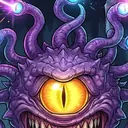
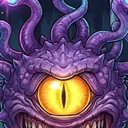
PR #99 — v0.53.1: rostos da foto de perfil ajustados (#99)
* v0.53.1: rostos da foto de perfil ajustados (27), Fen de pé

* v0.53.1: REGRAS

---------

diff --git a/tests/visual/v053.test.ts b/tests/visual/v053.test.ts
@@ -25,3 +25,13 @@ describe('v0.53.0 vitória, escolha de carta e tutorial', () => {
     expect(readFileSync('src/ui/spotlight.ts', 'utf8')).toContain('if (opts.light)');
   });
 });
+
+describe('v0.53.1 rostos ajustados à mão', () => {
+  it('os 27 pedidos têm corte próprio e o Fen é girado', () => {
+    const py = readFileSync('scripts/art/build_thumbs.py', 'utf8');
+    for (const id of 'borgo trokk skarr oculus grendar razorv thessa orun velka fenra zynna gorm vexar bolt goro hayato tobi ren sylith kraz9 vex4 fen bram vesna dorian lamenta drakon'.split(' '))
+      expect(py).toMatch(new RegExp(`FACE_FIX = \\{[\\s\\S]*'${id}': \\(`));
+    expect(py).toContain("'fen': (0.44, 0.75, 0.28, 'flip')");
+    expect(py).toContain('face.rotate(180)');
+  });
+});

diff --git a/scripts/art/build_thumbs.py b/scripts/art/build_thumbs.py
@@ -94,7 +94,17 @@ FACE_AUTO = {
     'yume': (0.503, 0.315, 0.308),
     'yuna': (0.528, 0.217, 0.336),
 }
-FACE = {**FACE_AUTO, **FACE}
+# v0.53.1: ajuste à mão pedido pelo jogador (rosto no centro; 'flip' = arte de cabeça para baixo, o rosto é girado 180°)
+FACE_FIX = {
+ 'borgo': (0.5, 0.24, 0.32), 'trokk': (0.5, 0.21, 0.3), 'skarr': (0.48, 0.3, 0.3), 'oculus': (0.5, 0.42, 0.45),
+ 'grendar': (0.47, 0.27, 0.45), 'razorv': (0.45, 0.27, 0.3), 'thessa': (0.48, 0.27, 0.28), 'orun': (0.55, 0.24, 0.3),
+ 'velka': (0.5, 0.2, 0.32), 'fenra': (0.66, 0.13, 0.32), 'zynna': (0.28, 0.36, 0.3), 'gorm': (0.58, 0.24, 0.3),
+ 'vexar': (0.36, 0.25, 0.3), 'bolt': (0.62, 0.27, 0.26), 'goro': (0.47, 0.28, 0.3), 'hayato': (0.43, 0.22, 0.3),
+ 'tobi': (0.47, 0.27, 0.3), 'ren': (0.47, 0.26, 0.28), 'sylith': (0.45, 0.48, 0.26), 'kraz9': (0.45, 0.28, 0.28),
+ 'vex4': (0.6, 0.27, 0.3), 'fen': (0.44, 0.75, 0.28, 'flip'), 'bram': (0.5, 0.3, 0.34), 'vesna': (0.36, 0.36, 0.28),
+ 'dorian': (0.5, 0.2, 0.28), 'lamenta': (0.5, 0.33, 0.26), 'drakon': (0.28, 0.44, 0.34),
+}
+FACE = {**FACE_AUTO, **FACE, **FACE_FIX}
 FACE_PX = 128
 fout = os.path.join(ROOT, 'src', 'assets', 'faces')
 os.makedirs(fout, exist_ok=True)
@@ -102,9 +112,13 @@ for p in sorted(glob.glob(os.path.join(ROOT, 'src', 'assets', 'chars', '*.webp')
     cid = os.path.basename(p)[:-5]
     im = Image.open(p).convert('RGB')
     w, h = im.size
-    cx, cy, sz = FACE.get(cid, FACE_DEFAULT)
+    v = FACE.get(cid, FACE_DEFAULT)
+    cx, cy, sz = v[:3]
     s = sz * w
     x0 = min(max(0, cx * w - s / 2), w - s)
     y0 = min(max(0, cy * h - s / 2), h - s)
-    im.crop((round(x0), round(y0), round(x0 + s), round(y0 + s))).resize((FACE_PX, FACE_PX), Image.LANCZOS).save(os.path.join(fout, f'{cid}.webp'), quality=80, method=6)
+    face = im.crop((round(x0), round(y0), round(x0 + s), round(y0 + s))).resize((FACE_PX, FACE_PX), Image.LANCZOS)
+    if len(v) > 3 and v[3] == 'flip':
+        face = face.rotate(180)
+    face.save(os.path.join(fout, f'{cid}.webp'), quality=80, method=6)
 print('rostos:', len(os.listdir(fout)))

diff --git a/CHANGELOG.md b/CHANGELOG.md
@@ -2,6 +2,11 @@
 
 Toda PR deve adicionar uma entrada aqui e atualizar o [REGRAS.md](REGRAS.md). Horários em Brasília (UTC−3).
 
+## [0.53.1] — 30/10/2026 · Rostos da foto de perfil ajustados
+- **Rosto no centro (27 personagens):** Borgo, Trokk, Skarr, Oculus, Grendar, Razor-V, Thessa, Orun, Velka (o queixo não é mais cortado), Fenra, Zynna, Gorm, Vexar, Bolt-12, Goro, Mestre Hayato, Tobi, Ren, Sylith, Kraz-9, Vex-4, Fen, Bram, Vesna, Dorian, Lamenta e Drakon.
+- **Fen:** a arte dele é de cabeça para baixo; o rosto da foto de perfil agora é girado e fica de pé.
+- Só o recorte da foto de perfil mudou; as artes das cartas são as mesmas.
+
 ## [0.53.0] — 30/10/2026 · Vitória mais clara e tutorial que mostra as habilidades
 - **Vitória:** o título "Vitória!" fica centralizado. Os três objetivos de estrela começam com "Vencer…" (o de derrotar inimigos virou "Vencer derrotando pelo menos N personagens inimigos").
 - **Primeira vitória:** a escolha de carta aparece no **começo** da janela, com as outras recompensas de primeira vitória. **Tocar** seleciona (dá para trocar tocando em outra), **segurar** mostra as habilidades como na partida, e **Continuar** (ou Treinar, ou o ✕) confirma a carta escolhida. Eles ficam travados até escolher.

diff --git a/REGRAS.md b/REGRAS.md
@@ -1280,3 +1280,4 @@ Política da Loja no simulador: quando um personagem está com a barra cheia e a
 - Objetivos de estrela sempre escritos como "Vencer…".
 - 1ª vitória: tocar seleciona a carta do rival, segurar mostra as habilidades, Continuar confirma.
 - Fora da batalha (escolha da 1ª vitória, tutorial, resultado do Banner), segurar ou tocar a carta abre os mesmos detalhes da partida.
+- Foto de perfil: o recorte põe o rosto no centro; arte de cabeça para baixo (Fen) tem o rosto girado de pé (v0.53.1).
